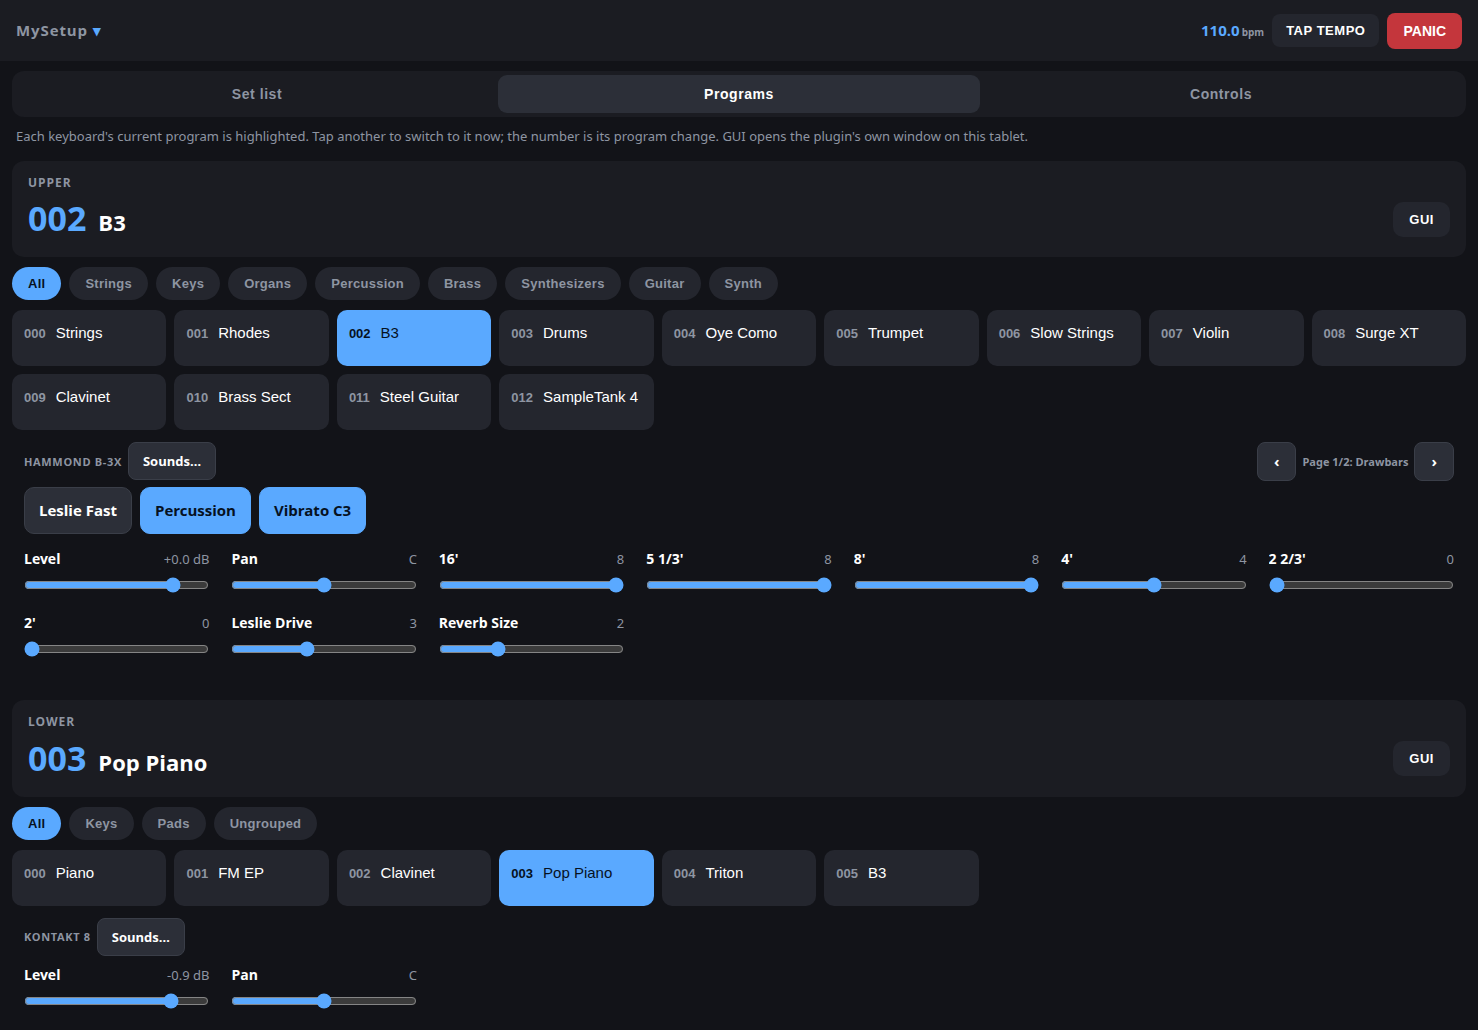
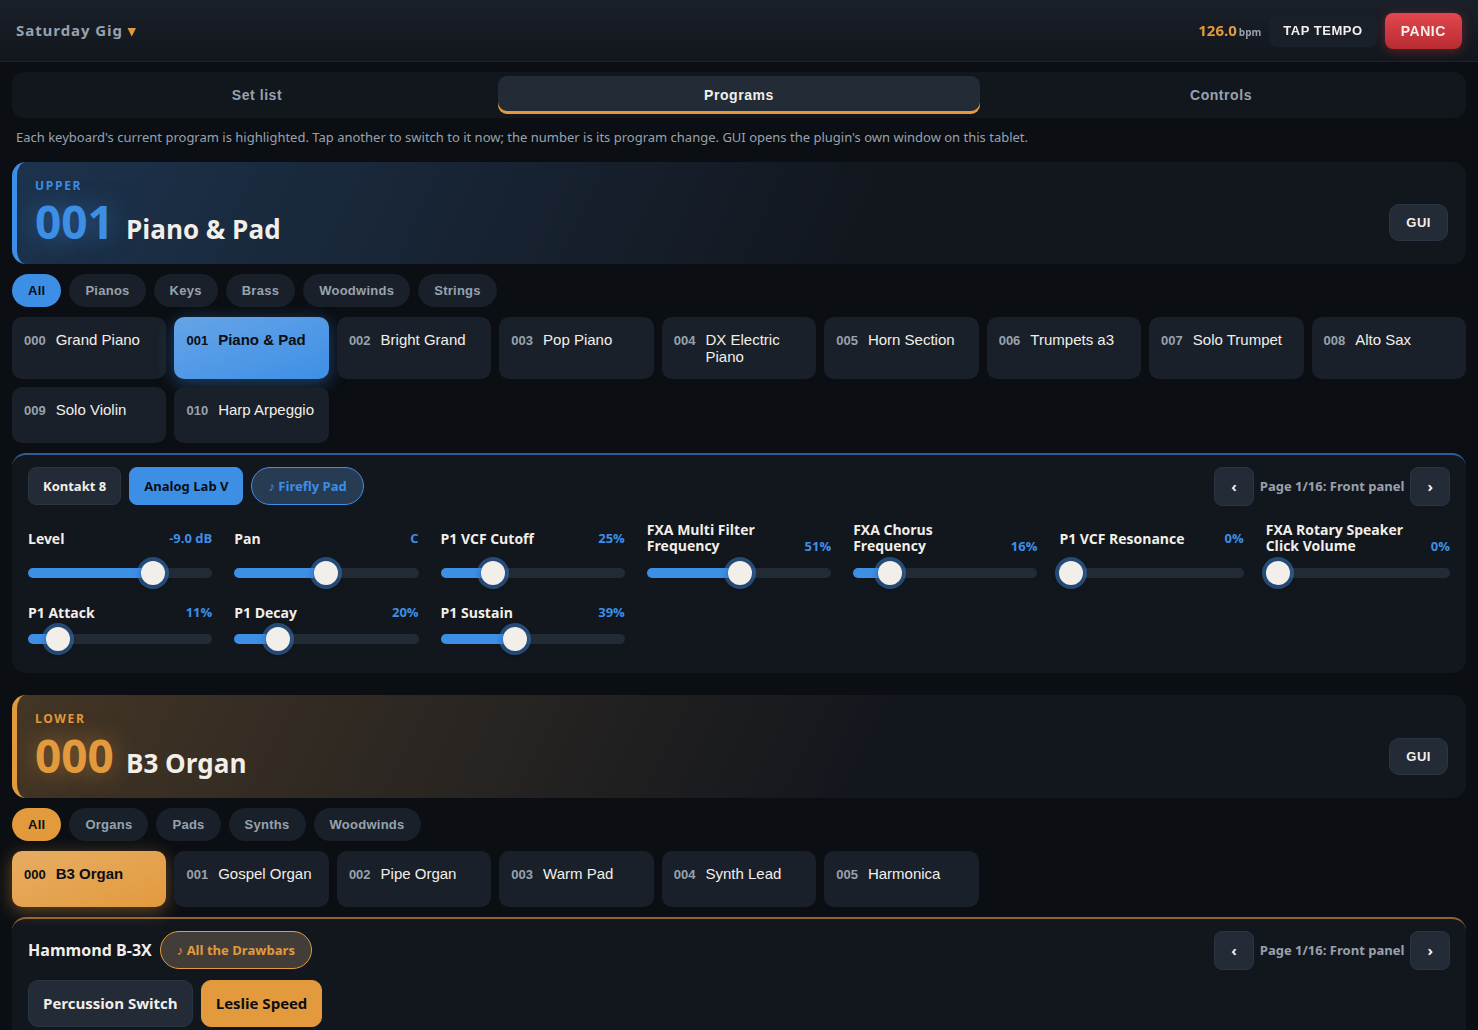
README: the tablet's set list and programs, from the demo setup

diff --git a/README.md b/README.md
@@ -286,12 +286,12 @@ chorus puts Upper on its strings by itself.
 **Tablet** in the toolbar starts a small web app on your network, for picking
 programs from a music stand instead of the laptop.
 
-![The tablet set list: the song you are on in large type with what each keyboard plays, the rest of the running order, and a search](docs/images/tablet-setlist.png)
+![The tablet set list for a Saturday wedding: September highlighted with its key, Horn Section on the upper keyboard and B3 Organ on the lower, the rest of the running order, and a search](docs/images/tablet-setlist.png)
 
 The Programs tab is the same page's other half -- every program on every
 keyboard, grouped, with a GUI button per input:
 
-![The tablet showing the programs of both keyboards, grouped by kind, with the Hammond's buttons and drawbars under the program in play](docs/images/tablet-app.png)
+![The tablet showing the programs of both keyboards, grouped by kind: Piano & Pad on the upper with the pad's filter, chorus and envelope knobs, and B3 Organ on the lower with the Hammond's buttons](docs/images/tablet-app.png)
 
 ![The Tablet control dialog](docs/images/tablet-control.png)
 
